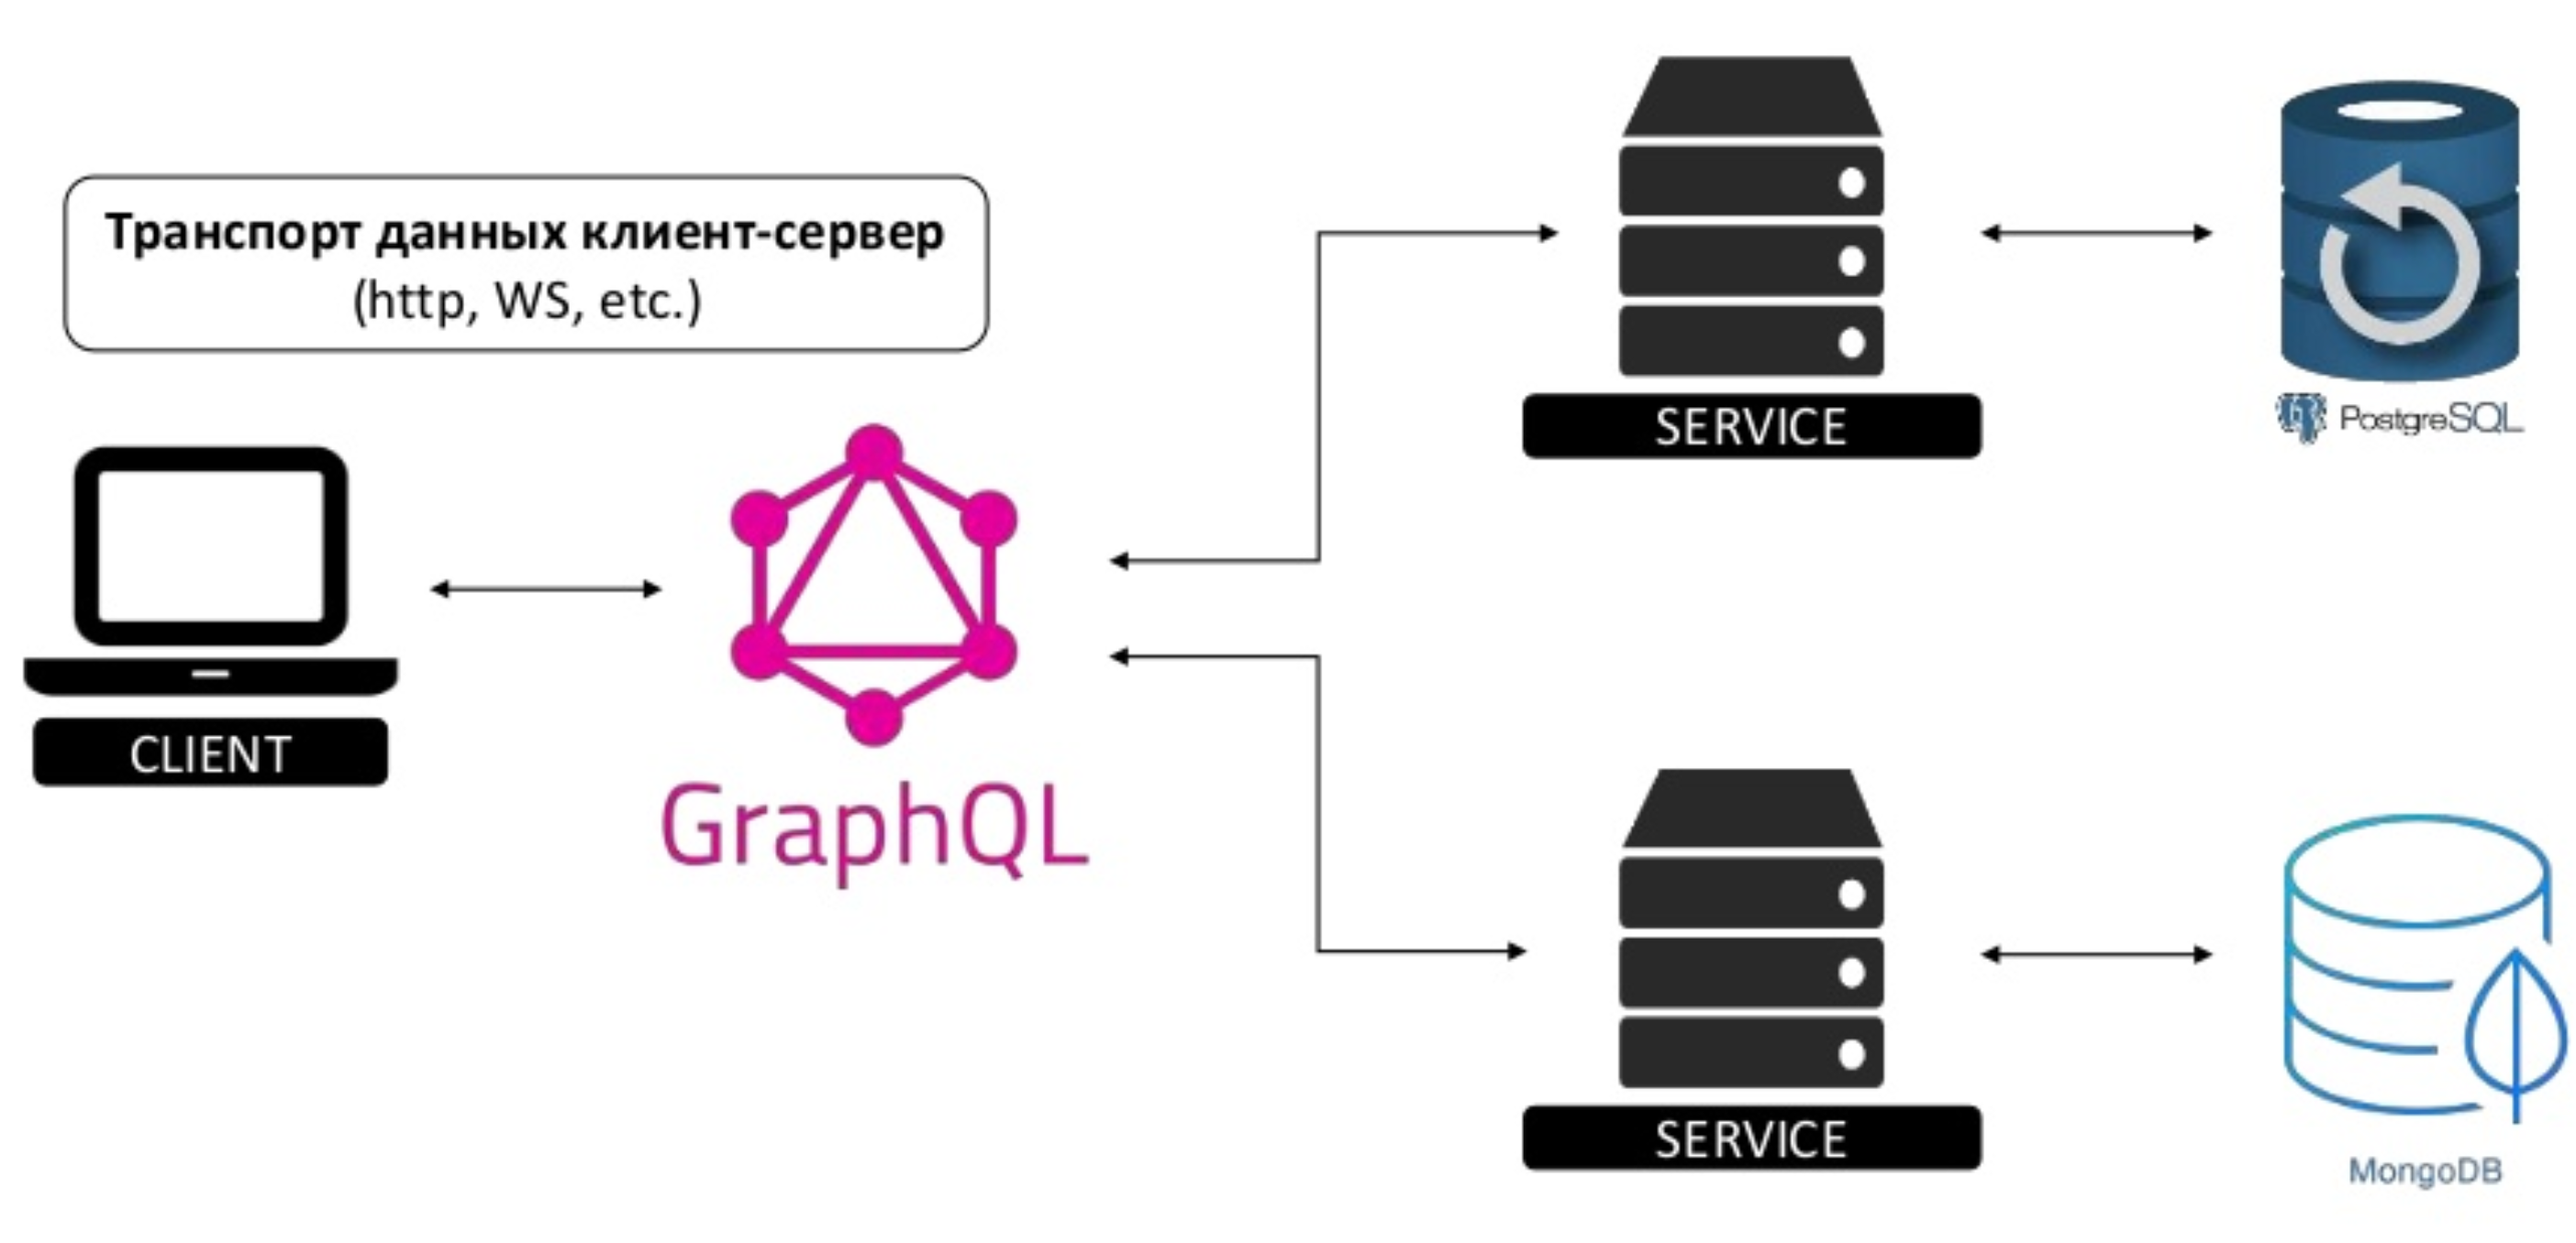
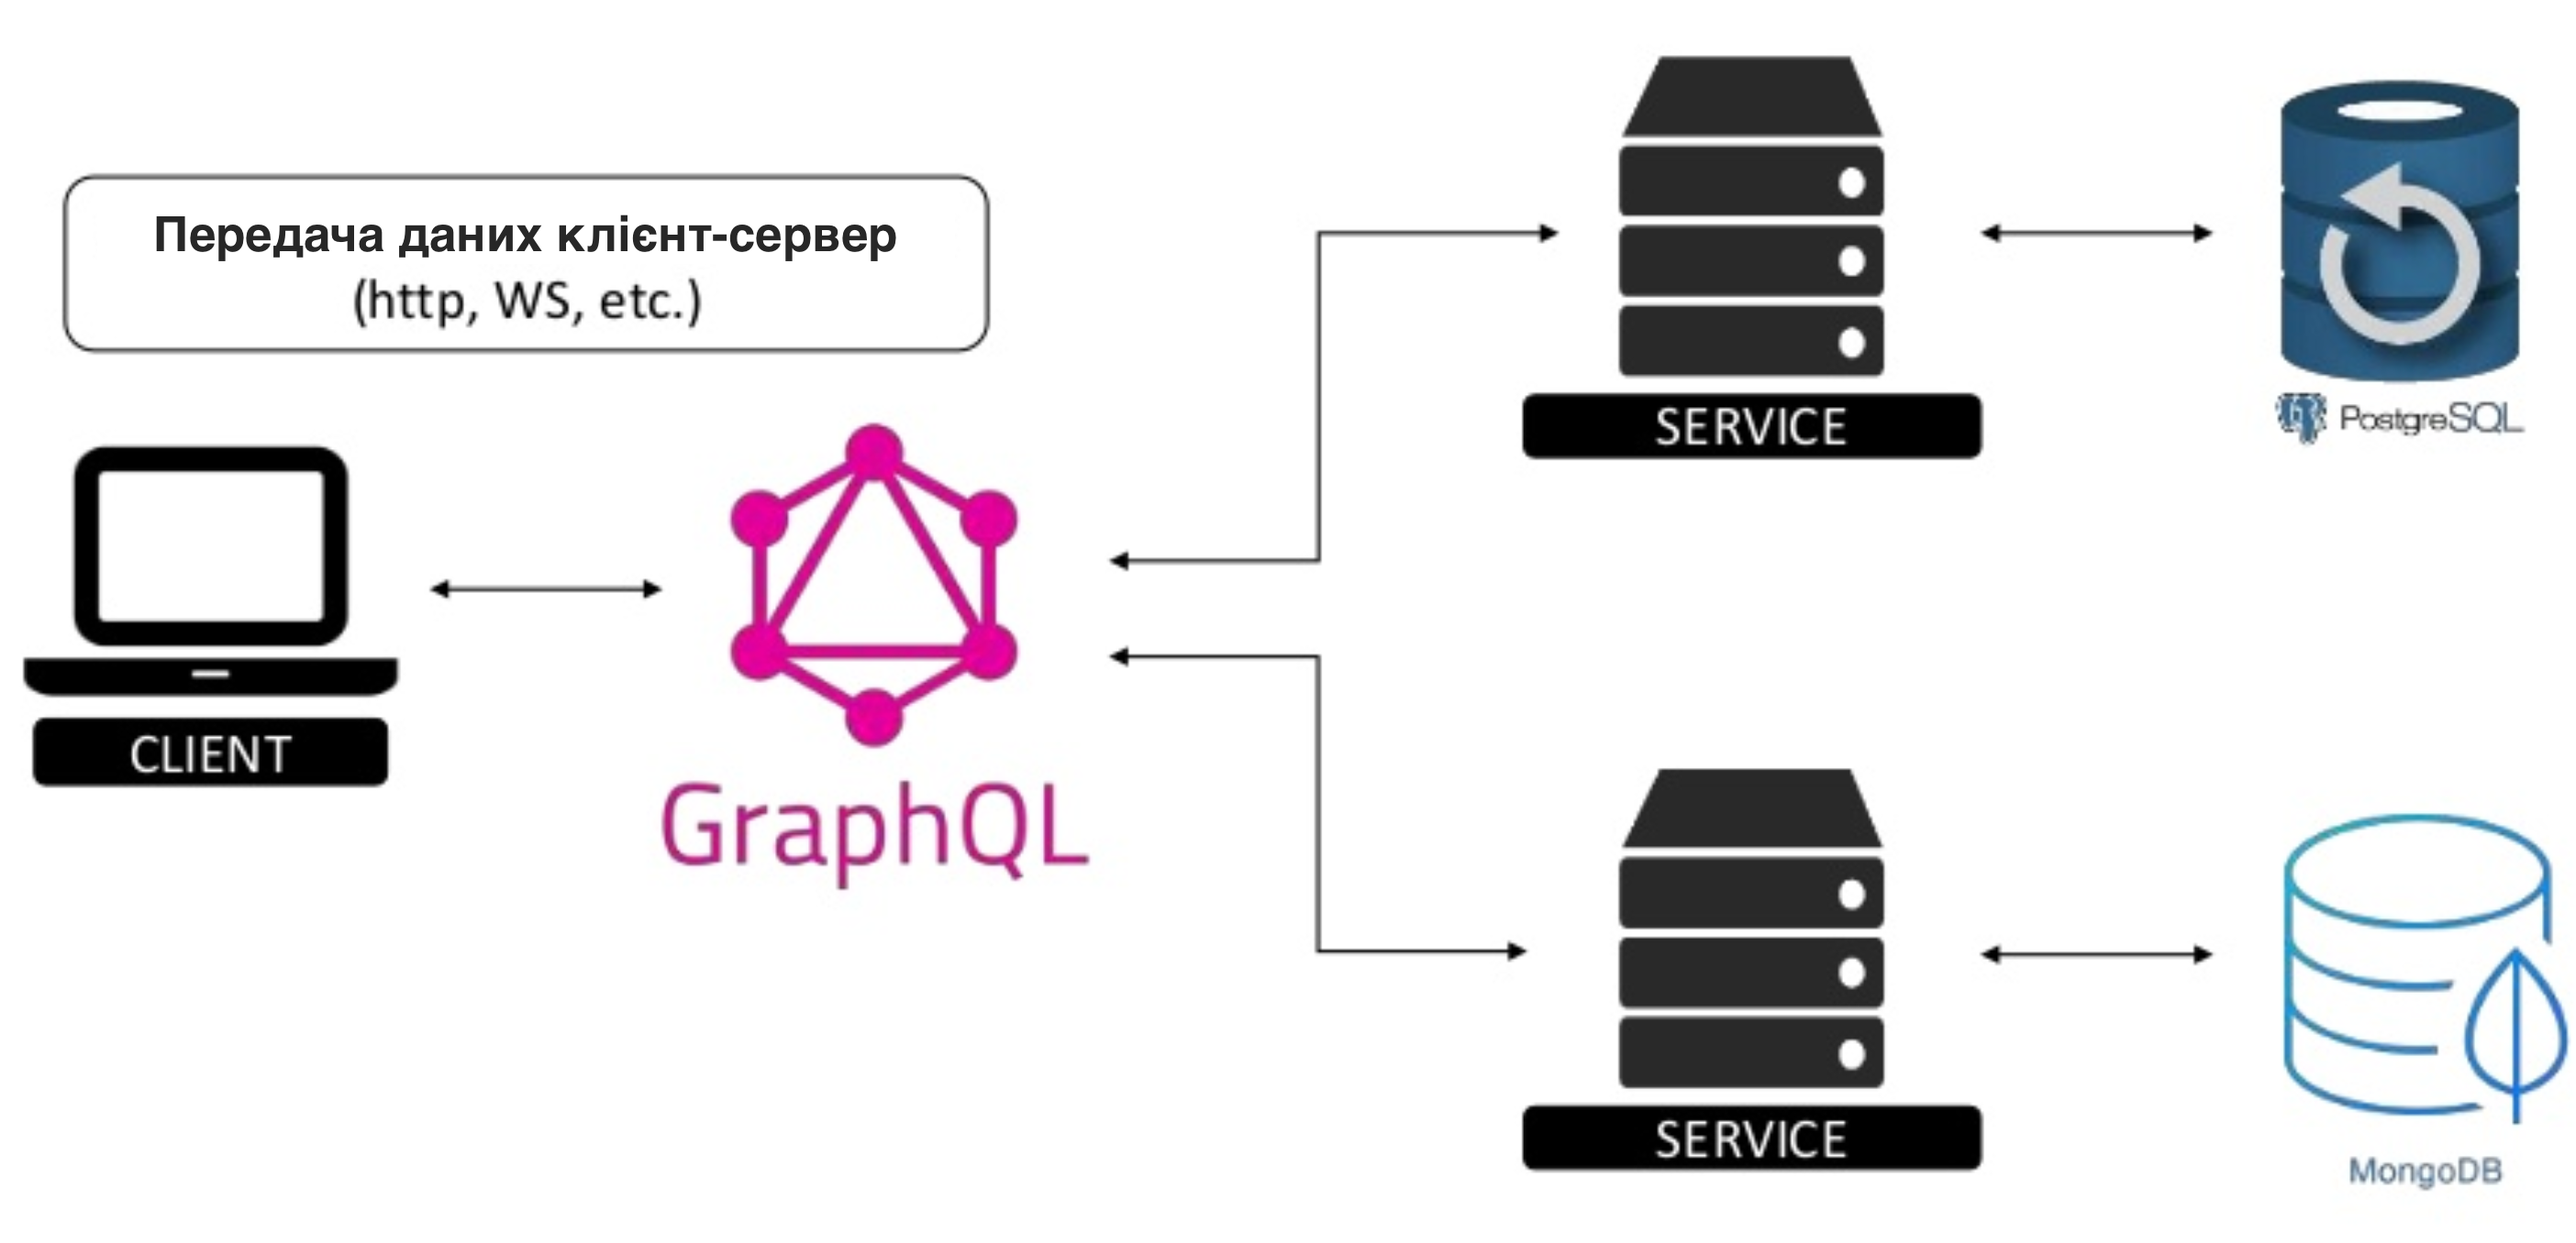
Translate React course to Ukraine - lesson 10

Changed region(s): [[0.031, 0.1549, 0.3718, 0.2168]]

diff --git a/courses/react/10-graphql/index.html b/courses/react/10-graphql/index.html
@@ -48,10 +48,10 @@
     </section>
 
     <section class="slide">
-        <h2>Темы</h2>
+        <h2>Теми</h2>
         <ol>
             <li>REST API</li>
-            <li>недостатки REST</li>
+            <li>Недоліки REST</li>
             <li>GraphQL</li>
         </ol>
     </section>
@@ -59,8 +59,8 @@
     <section class="slide">
         <h2>REST</h2>
         <p>
-            <i>REST</i> - это набор ограничений и правил как организовать кода приложения, чтобы все системы легко
-            обменивались данными и приложение можно было легко масштабировать.
+            <i>REST</i> - Це набір правил і обмежень, як організувати код застосунку,
+            щоб усі системи легко обмінювалися даними і додаток можна було легко масштабувати.
         </p>
     </section>
 
@@ -73,27 +73,27 @@
                 <th>Path</th>
             </tr>
             <tr>
-                <td>Получить все таски</td>
+                <td><span class="next">Отримати всі таски</span></td>
                 <td>GET</td>
                 <td>/tasks</td>
             </tr>
             <tr>
-                <td>Создать новую таску</td>
+                <td><span class="next">Створити нову таску</span></td>
                 <td>POST</td>
                 <td>/tasks</td>
             </tr>
             <tr>
-                <td>Получить определенную таску</td>
+                <td><span class="next">Отримати конкретну таску</span></td>
                 <td>GET</td>
                 <td>/tasks/{id}</td>
             </tr>
             <tr>
-                <td>Обновить существующую таску</td>
+                <td><span class="next">Оновити існуючу таску</span></td>
                 <td>PUT</td>
                 <td>/tasks/{id}</td>
             </tr>
             <tr>
-                <td>Удалить существующую таску</td>
+                <td><span class="next">Оновити існуючу таску</span></td>
                 <td>DELETE</td>
                 <td>/tasks/{id}</td>
             </tr>
@@ -101,12 +101,12 @@
     </section>
 
     <section class="slide rest-in-action">
-        <h2>REST API в реальности</h2>
+        <h2>REST API в реальних умовах</h2>
         <img src="./assets/rest-in-action.png" alt="rest in action" class="responsive">
     </section>
 
     <section class="slide">
-        <h2>REST API микросервисы</h2>
+        <h2>REST API мікросервіси</h2>
         <img src="./assets/rest-api-advanced.png" alt="rest advanced" class="responsive">
     </section>
 
@@ -117,34 +117,34 @@
 
     <section class="slide">
         <h2>GraphQL</h2>
-        <p><b>GraphQL</b> это синтаксис, который описывает как запрашивать данные</p>
+        <p><b>GraphQL</b> це синтаксис, який описує, як запитувати дані</p>
 
-        <h3>Основные характеристики</h3>
+        <h3>Основні характеристики:</h3>
         <ul>
-            <li>Позволяет клиенту точно указать, какие данные ему нужны.</li>
-            <li>Облегчает агрегацию данных из нескольких источников.</li>
-            <li>Использует систему типов для описания данных.</li>
+            <li>Дозволяє клієнту точно вказати, які дані йому потрібні.</li>
+            <li>Полегшує агрегацію даних з кількох джерел.</li>
+            <li>Використовує систему типів для опису даних.</li>
         </ul>
     </section>
 
     <section class="slide">
-        <h2>Анатомия запроса</h2>
+        <h2>Анатомія запиту</h2>
         <img src="./assets/query-anatomy.png" alt="graphql anatomy">
     </section>
 
     <section class="slide">
-        <h2>Query - получение данных</h2>
+        <h2>Query - отримання даних</h2>
         <pre>
             <code>query log{</code>
             <code>  login(login:"test", password:"test")</code>
             <code>}</code>
         </pre>
         <ul>
-            <li><i>log</i> - имя для вашего удобства</li>
+            <li><i>log</i> - імʼя для нашої зручності</li>
             <li>
-                <i>login</i> - имя запроса на бэке.
+                <i>login</i> - імʼя запита на бекенді.
                 <ul>
-                    <li>login - строка логина</li>
+                    <li>login - значення логіна</li>
                     <li>password - пароль</li>
                 </ul>
             </li>
@@ -152,19 +152,19 @@
     </section>
 
     <section class="slide mutation">
-        <h2>Mutation - изменение данных</h2>
+        <h2>Mutation - зміна даних</h2>
         <pre>
             <code>mutation reg{</code>
-            <code>  UserUpsert(user: {login:"test", password:"test"}){</code>
+            <code>  UserUpsert(user: { login:"test", password:"test" }){</code>
             <code>    _id, login</code>
             <code>  }</code>
             <code>}</code>
         </pre>
         <ul>
-            <li><i>reg</i> - имя для вашего удобства</li>
-            <li><i>UserUpsert</i> - имя мутации с бэка</li>
-            <li><i>user</i> - значение типа для отправки на сервер (input UserInput).</li>
-            <li>_id, login - поля которые получим в ответ.</li>
+            <li><i>reg</i> - імʼя для нашої зручності</li>
+            <li><i>UserUpsert</i> - імʼя мутації на бекенді</li>
+            <li><i>user</i> - значення типу для відправки на сервер (input UserInput)</li>
+            <li>_id, login - поля які отримаємо у відповідь</li>
         </ul>
         <style>
             .mutation pre {
@@ -181,12 +181,10 @@
     <section class="slide">
         <h2>Links</h2>
         <ul>
-            <li>
-                <a href="https://graphql.org/">GraphQL</a>
-            </li>
-            <li><a href="http://shop-roles.asmer.fs.a-level.com.ua/graphql">Бэк магазина (онлайн песочница)</a></li>
-            <li><a href="http://shop-roles.asmer.fs.a-level.com.ua/">Бэк магазина (для работы с ним)</a></li>
-            <li><a href="http://doc.a-level.com.ua/frontend-graphql-backs/">Дока</a></li>
+            <li><a href="https://graphql.org/" target="_blank">GraphQL</a></li>
+            <li><a href="http://shop-roles.asmer.fs.a-level.com.ua/graphql" target="_blank">Бэк магазина (онлайн песочница)</a></li>
+            <li><a href="http://shop-roles.asmer.fs.a-level.com.ua/" target="_blank">Бэк магазина (для работы с ним)</a></li>
+            <li><a href="http://doc.a-level.com.ua/frontend-graphql-backs/" target="_blank">Дока</a></li>
         </ul>
     </section>
 

diff --git a/courses/react/09-react-advanced-2/index.html b/courses/react/09-react-advanced-2/index.html
@@ -218,9 +218,9 @@
     <section class="slide">
         <h2>Links</h2>
         <ul>
-            <li><a href="https://uk.react.dev/reference/react/useContext">Контекст</a></li>
-            <li><a href="https://uk.react.dev/reference/react/useRef">Refs</a></li>
-            <li><a href="https://uk.react.dev/reference/react-dom/createPortal">Portals</a></li>
+            <li><a href="https://uk.react.dev/reference/react/useContext" target="_blank">Контекст</a></li>
+            <li><a href="https://uk.react.dev/reference/react/useRef" target="_blank">Refs</a></li>
+            <li><a href="https://uk.react.dev/reference/react-dom/createPortal" target="_blank">Portals</a></li>
         </ul>
     </section>
 
